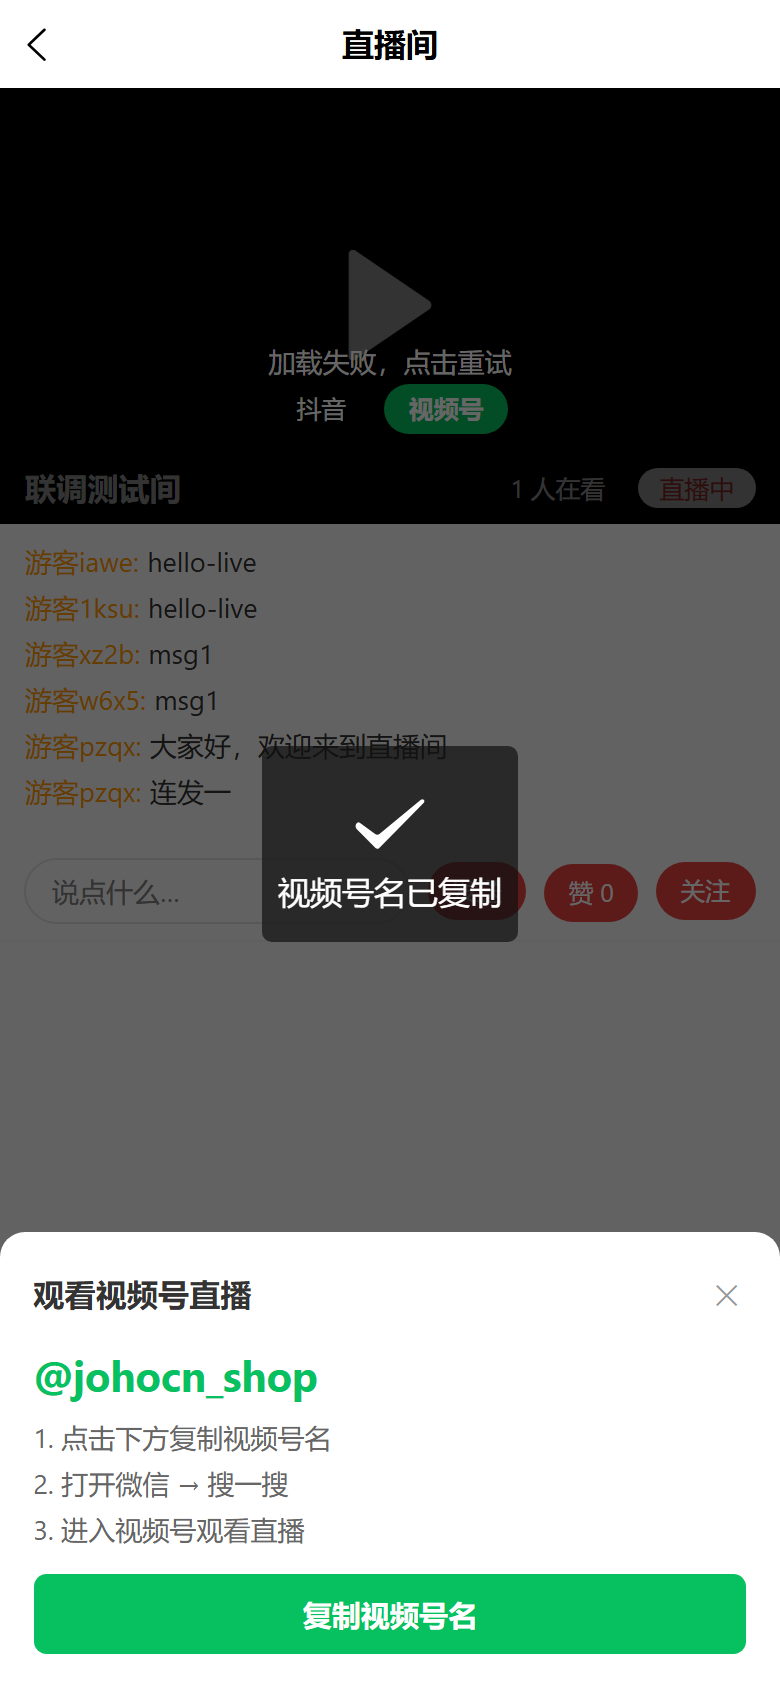
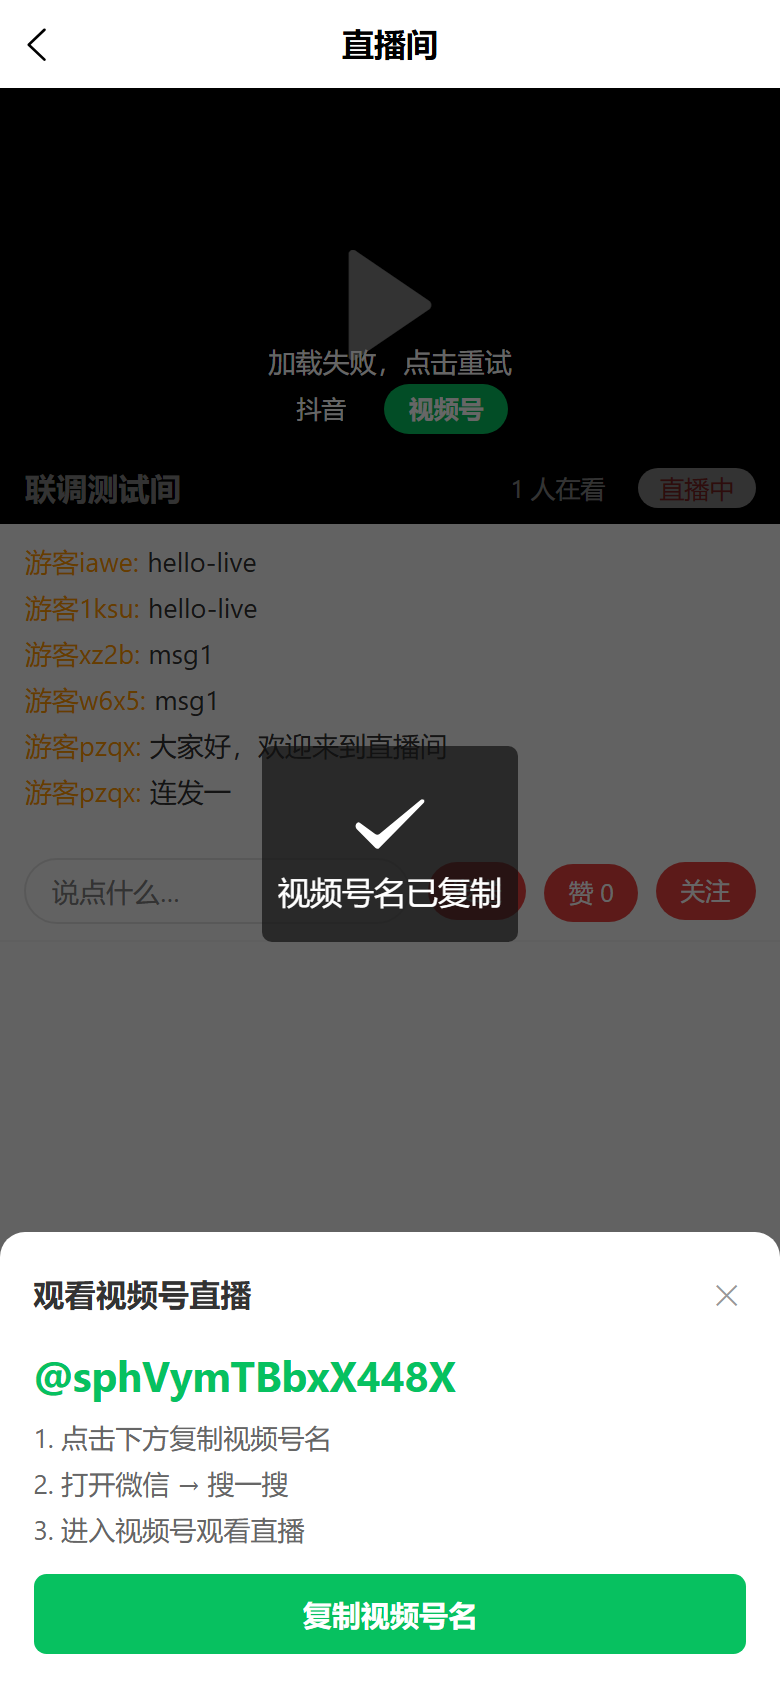
docs(live): 取证截图刷新至真实视频号 ID sphVymTBbxX448X

Changed region(s): [[0.0923, 0.8009, 0.5846, 0.8318]]

diff --git a/docs/verify/_shot_live_platforms.py b/docs/verify/_shot_live_platforms.py
@@ -56,7 +56,7 @@ def main():
         pg.click(".pill.p-wechat_channels")
         pg.wait_for_selector(".sheet", state="visible", timeout=5000)
         name_txt = pg.inner_text(".sheet-name").strip()
-        check(name_txt == "@johocn_shop", "视频号弹层显示 @johocn_shop（实际 %r）" % name_txt)
+        check(name_txt == "@sphVymTBbxX448X", "视频号弹层显示 @sphVymTBbxX448X（实际 %r）" % name_txt)
         shot(pg, "live-plat-02-wxsheet.png")
 
         # ③ 复制 toast

diff --git a/docs/verify/2026-10-live-platforms.md b/docs/verify/2026-10-live-platforms.md
@@ -42,7 +42,7 @@
 | 截图 | 断言 |
 |---|---|
 | live-plat-01-pills.png | 形态一 pill 行显示 抖音+视频号 |
-| live-plat-02-wxsheet.png | 视频号弹层显示 @johocn_shop |
+| live-plat-02-wxsheet.png | 视频号弹层显示 @sphVymTBbxX448X（真实视频号 ID，2026-10-05 更新） |
 | live-plat-03-toast.png | 复制视频号名 toast 出现 |
 | live-plat-04-form2-gobtn.png | 形态二「前往视频号观看」按钮 |
 | live-plat-05-plain-ended.png | 无 platforms 回归：直播已结束、无 go-btn/pills |
